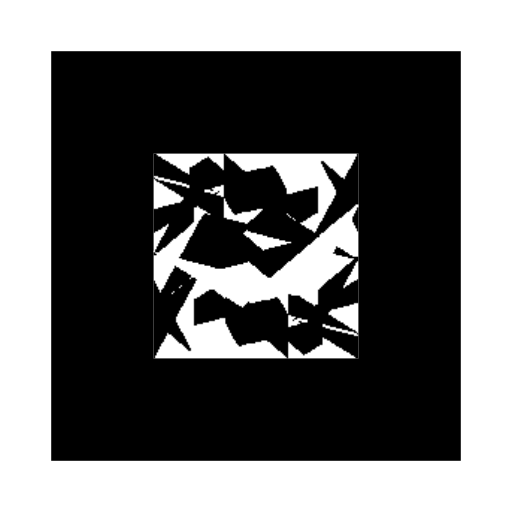
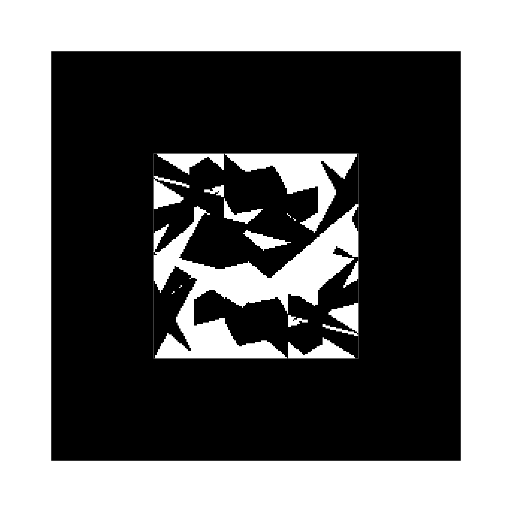
marker change

diff --git a/ar/index.html b/ar/index.html
@@ -92,7 +92,7 @@
             id="animated-marker"
             type="pattern"
             preset="custom"
-            url="assets/marker.patt"
+            url="assets/gmarker.patt"
             raycaster="objects: .clickable"
             emitevents="true"
             cursor="fuse: false; rayOrigin: mouse;"
